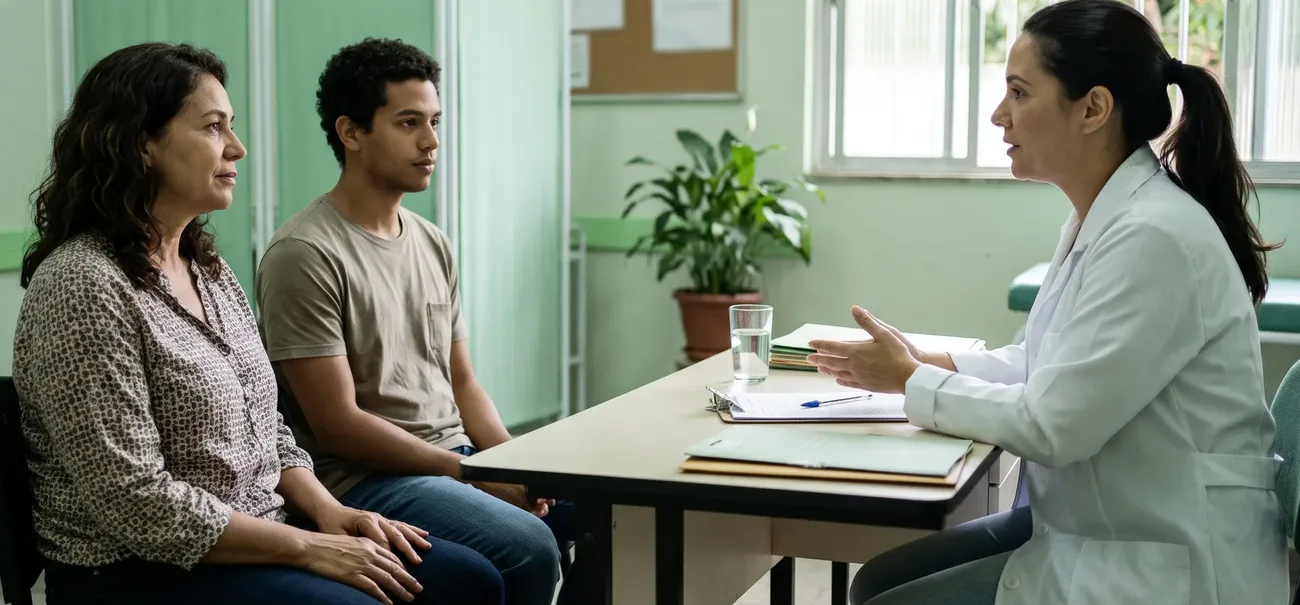
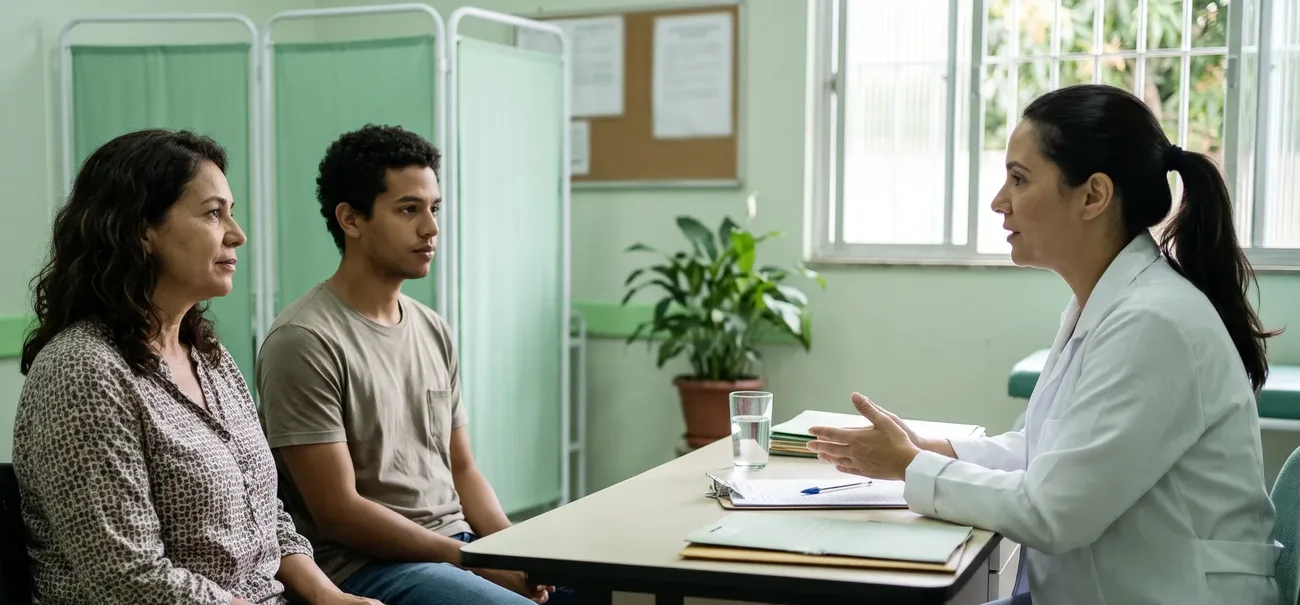
Blog: card da internação involuntária sem cortar as cabeças

diff --git a/lib/guias.ts b/lib/guias.ts
@@ -54,6 +54,9 @@ export type Guia = {
   // Recorte mais aproximado pro card da lista, em /public/blog/<slug>-card.webp (proporção próxima de 2:1).
   // Sem ele, o card usa a imagem do topo.
   imagemCard?: boolean;
+  // Onde o card ancora a foto (object-position), quando o centro corta o rosto das pessoas: o card tem
+  // altura fixa e, numa coluna larga, mostra só a faixa do meio. Sem ele, "center".
+  posicaoDaFotoDoCard?: string;
 };
 
 const p = (texto: string): BlocoGuia => ({ tipo: "paragrafo", texto });
@@ -4523,6 +4526,8 @@ export const GUIAS: Guia[] = [
     imagem: true,
     imagemAlt: "Uma mulher de meia-idade e um rapaz sentados lado a lado diante de uma profissional de saúde de jaleco branco, numa sala de atendimento com paredes verde-claras, biombos, um vaso de planta e uma mesa com prancheta, pastas e um copo d'água.",
     imagemCard: true,
+    // Os rostos ficam no alto da imagem: ancorado no centro, o card cortava as cabeças.
+    posicaoDaFotoDoCard: "center top",
   },
 ];
 

diff --git a/app/blog/page.tsx b/app/blog/page.tsx
@@ -41,6 +41,7 @@ export default function BlogPage() {
               <CardPublico
                 href={`/blog/${guia.slug}`}
                 foto={guia.imagem ? caminhoDaImagemDoCard(guia) : undefined}
+                posicaoDaFoto={guia.posicaoDaFotoDoCard}
                 // A largura do slot, não a da viewport: o card perde os 16 de padding da página no
                 // celular e os 32 mais o gap do grid no tablet. Sem isso o navegador pede um degrau
                 // de imagem acima do que vai mostrar.
